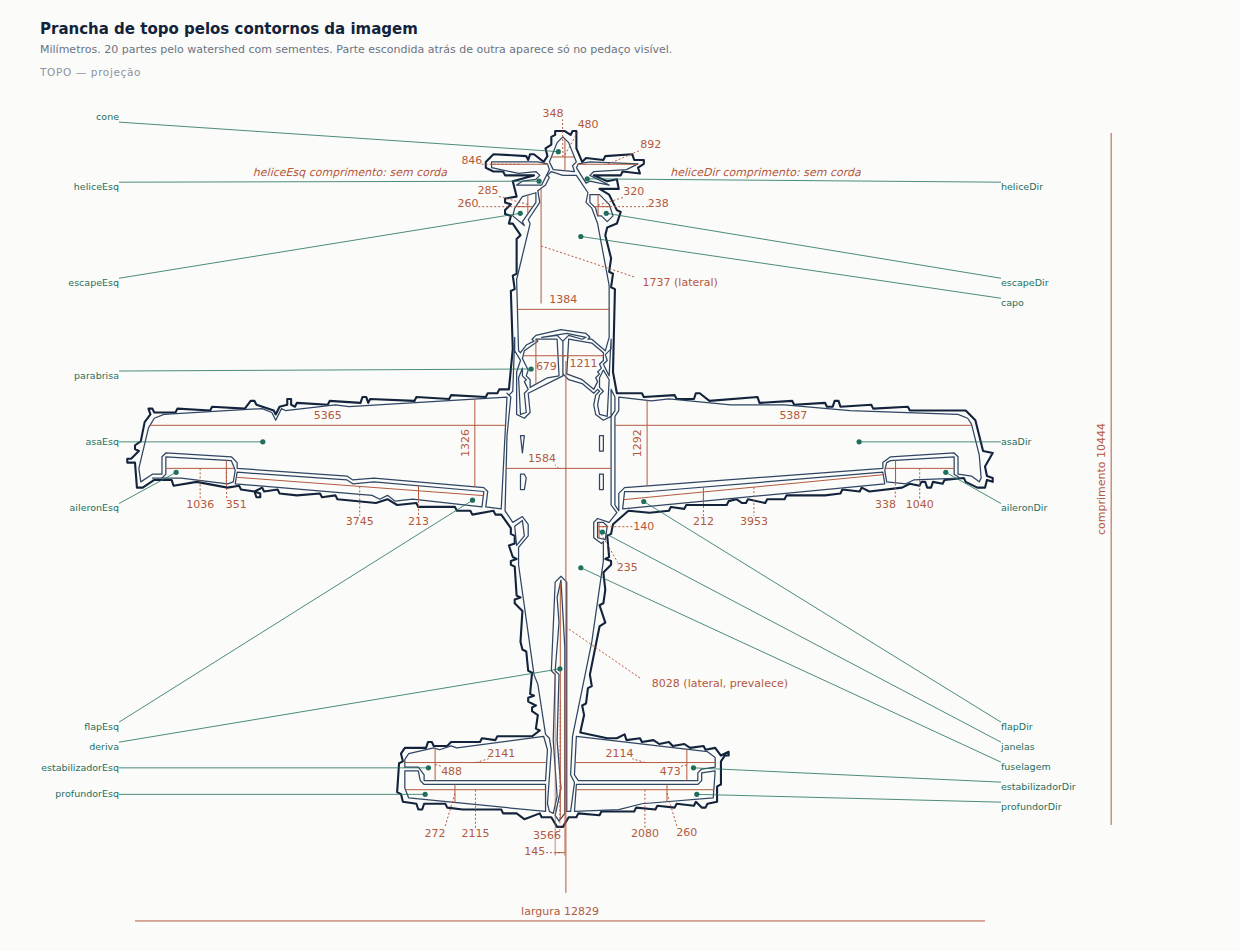
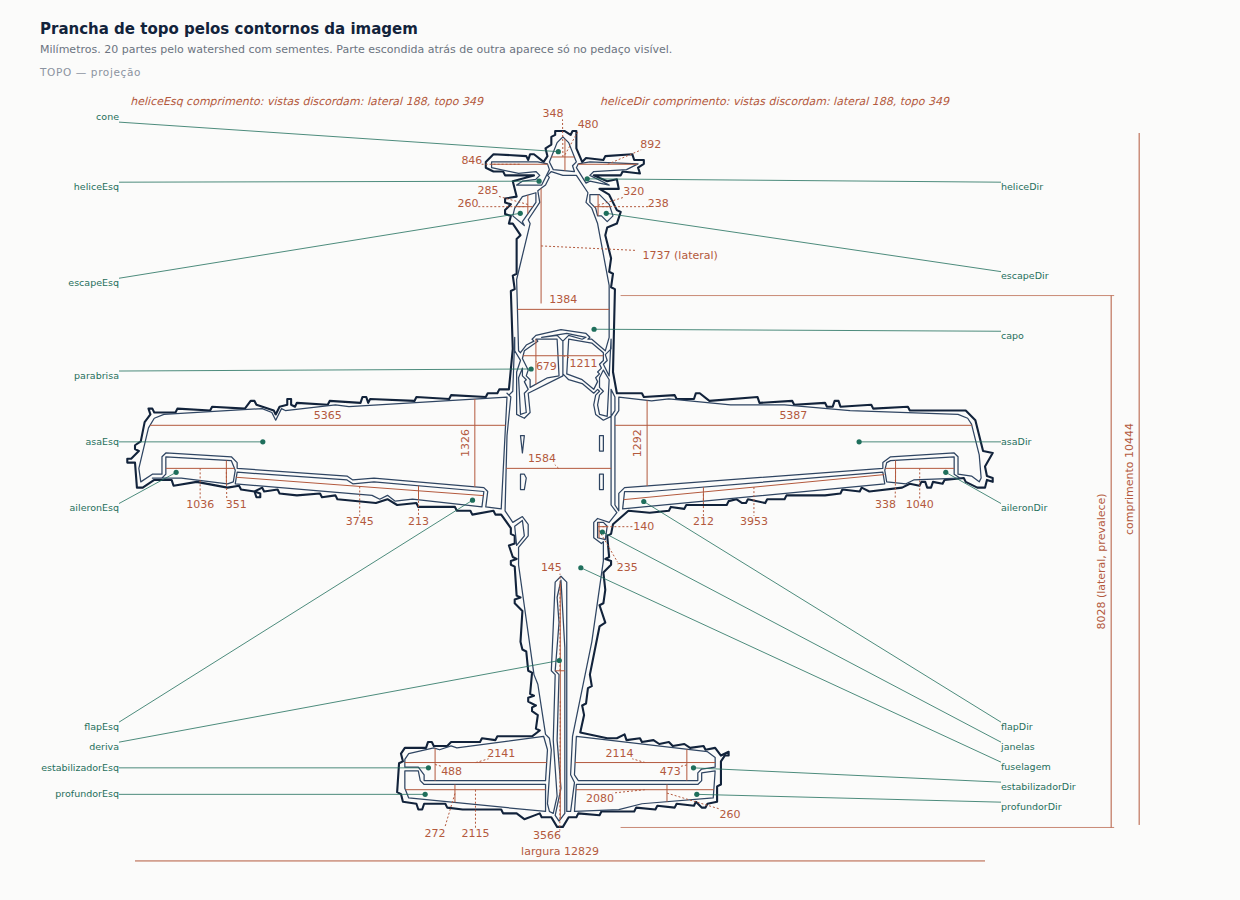
Prancha de topo do avião sem colisões: cota da fuselagem além dos nomes, deriva medida onde existe
Claude-Session: https://claude.ai/code/session_015i1y8CrgTgEfwGG2HEX8g8

diff --git a/docs/mecanifica/banco-de-provas/aviao-2026-10-11/referencias/topo.prancha.pacote/roteiro.md b/docs/mecanifica/banco-de-provas/aviao-2026-10-11/referencias/topo.prancha.pacote/roteiro.md
@@ -16,9 +16,9 @@ Abra o alvo (/home/user/nos-mecanifica/docs/mecanifica/banco-de-provas/aviao-202
 
 ## Etapa 3 — heliceEsq
 
-- cotas esperadas: largura (medida aqui) e comprimento (não medível: sem corda). Cobre só estas duas; cota em falta é `cota` com sentido `faltando`.
+- cotas esperadas: largura (medida aqui) e comprimento (não medível: vistas discordam: lateral 188, topo 349). Cobre só estas duas; cota em falta é `cota` com sentido `faltando`.
 - largura: cota 846. A linha atravessa a seção que o modelador precisa, dentro de heliceEsq?
-- comprimento: EM FALTA: só há a nota "sem corda", que não dá número. A linha mede heliceEsq de ponta a ponta na vertical, sem pegar parte vizinha?
+- comprimento: EM FALTA: só há a nota "vistas discordam: lateral 188, topo 349", que não dá número. A linha mede heliceEsq de ponta a ponta na vertical, sem pegar parte vizinha?
 - nome: "heliceEsq" fica na coluna da esquerda. A chamada termina dentro de heliceEsq, e não numa vizinha?
 - linhas livres: a chamada e as cotas de heliceEsq não cruzam outra linha nem passam sobre número ou nome?
 
@@ -88,9 +88,9 @@ Abra o alvo (/home/user/nos-mecanifica/docs/mecanifica/banco-de-provas/aviao-202
 
 ## Etapa 12 — heliceDir
 
-- cotas esperadas: largura (medida aqui) e comprimento (não medível: sem corda). Cobre só estas duas; cota em falta é `cota` com sentido `faltando`.
+- cotas esperadas: largura (medida aqui) e comprimento (não medível: vistas discordam: lateral 188, topo 349). Cobre só estas duas; cota em falta é `cota` com sentido `faltando`.
 - largura: cota 892. A linha atravessa a seção que o modelador precisa, dentro de heliceDir?
-- comprimento: EM FALTA: só há a nota "sem corda", que não dá número. A linha mede heliceDir de ponta a ponta na vertical, sem pegar parte vizinha?
+- comprimento: EM FALTA: só há a nota "vistas discordam: lateral 188, topo 349", que não dá número. A linha mede heliceDir de ponta a ponta na vertical, sem pegar parte vizinha?
 - nome: "heliceDir" fica na coluna da direita. A chamada termina dentro de heliceDir, e não numa vizinha?
 - linhas livres: a chamada e as cotas de heliceDir não cruzam outra linha nem passam sobre número ou nome?
 
